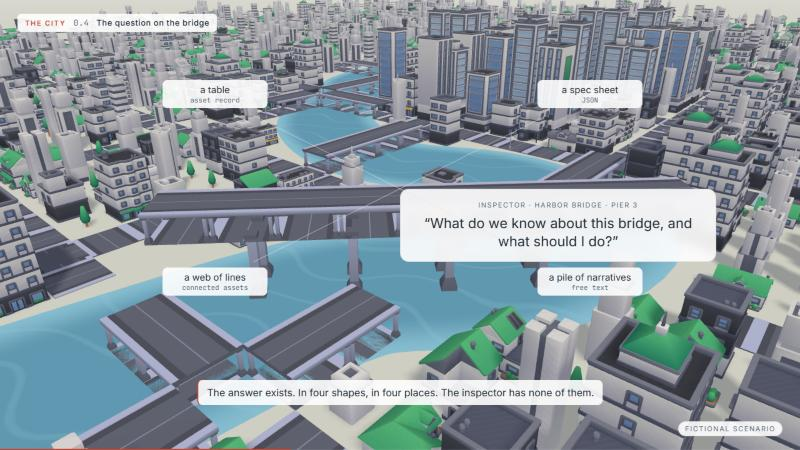
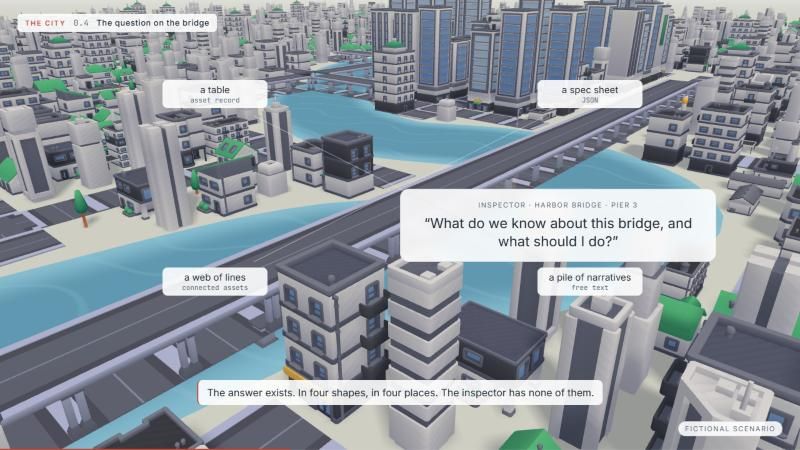
bridge: grid-aligned deck at road level with approach roads; no other crossings near the port

diff --git a/src/world/bridgeFrame.ts b/src/world/bridgeFrame.ts
@@ -1,37 +1,65 @@
 import { assetPosition } from '../content/geo';
-import { RIVER_CURVE, distanceToRiver, riverHalfWidth } from './river';
+import { RIVER_CURVE, distanceToRiver, isWater } from './river';
 
 export interface BridgeFrame {
   x: number;
   z: number;
-  /** half length of the deck (bank to bank plus approach) */
+  /** half length of the deck over water, bank to bank */
   half: number;
-  /** rotation about y so local +x runs across the river */
+  /** how far the approach road runs on land beyond each bank */
+  approach: number;
+  /** rotation about y so local +x runs across the river; snapped to the road grid */
   yaw: number;
 }
 
 let cached: BridgeFrame | null = null;
 
-/** Where Harbor Bridge crosses the river, derived from the asset position and the river curve. */
+/**
+ * Where Harbor Bridge crosses the river. The axis is snapped to the road grid (quarter turns)
+ * so the deck lines up with the streets, and the deck length is measured along that axis.
+ */
 export function harborBridgeFrame(): BridgeFrame {
   if (cached) return cached;
   const p = assetPosition('Harbor Bridge');
   const { t } = distanceToRiver(p.x, p.z);
   const c = RIVER_CURVE.getPointAt(t);
   const tan = RIVER_CURVE.getTangentAt(t);
-  const half = riverHalfWidth(t) + 12;
-  const yaw = Math.atan2(tan.x, tan.z) + Math.PI / 2;
-  cached = { x: c.x, z: c.z, half, yaw };
+  const raw = Math.atan2(tan.x, tan.z) + Math.PI / 2;
+  const yaw = Math.round(raw / (Math.PI / 2)) * (Math.PI / 2);
+  // local +x direction in world space
+  const dx = Math.cos(yaw);
+  const dz = -Math.sin(yaw);
+  const extent = (sign: number) => {
+    let d = 0;
+    while (d < 90 && isWater(c.x + dx * d * sign, c.z + dz * d * sign, 1)) d += 1;
+    return d;
+  };
+  const half = Math.max(extent(1), extent(-1)) + 4;
+  cached = { x: c.x, z: c.z, half, approach: 40, yaw };
   return cached;
 }
 
-/** True when (x, z) lies inside the bridge corridor (deck plus approaches), in world units. */
-export function inBridgeCorridor(x: number, z: number, margin = 8): boolean {
+/** Bridge-local coordinates: lx along the deck, lz across it. */
+export function toBridgeLocal(x: number, z: number): { lx: number; lz: number } {
   const f = harborBridgeFrame();
   const dx = x - f.x;
   const dz = z - f.z;
-  // rotate into bridge-local space: local x along the deck, local z across it
-  const lx = dx * Math.cos(-f.yaw) + dz * Math.sin(-f.yaw);
-  const lz = -dx * Math.sin(-f.yaw) + dz * Math.cos(-f.yaw);
-  return Math.abs(lz) < margin && Math.abs(lx) < f.half + margin;
+  const cos = Math.cos(f.yaw);
+  const sin = Math.sin(f.yaw);
+  // inverse of rotation about y by yaw: world = R(yaw) * local
+  return { lx: dx * cos - dz * sin, lz: dx * sin + dz * cos };
+}
+
+/** True when (x, z) lies inside the bridge corridor: deck plus approach roads on land. */
+export function inBridgeCorridor(x: number, z: number, margin = 8): boolean {
+  const f = harborBridgeFrame();
+  const { lx, lz } = toBridgeLocal(x, z);
+  return Math.abs(lz) < margin && Math.abs(lx) < f.half + f.approach + margin;
+}
+
+/** True when (x, z) is on the approach road (on land, within the corridor, beyond the deck). */
+export function onBridgeApproach(x: number, z: number, halfWidth = 3.5): boolean {
+  const f = harborBridgeFrame();
+  const { lx, lz } = toBridgeLocal(x, z);
+  return Math.abs(lz) < halfWidth && Math.abs(lx) >= f.half - 1 && Math.abs(lx) < f.half + f.approach;
 }

diff --git a/src/world/kitLayout.ts b/src/world/kitLayout.ts
@@ -1,7 +1,7 @@
 import { project } from '../content/geo';
 import { rng, CITY_BOUNDS } from './cityLayout';
 import { isWater } from './river';
-import { inBridgeCorridor } from './bridgeFrame';
+import { harborBridgeFrame, inBridgeCorridor, onBridgeApproach } from './bridgeFrame';
 
 /** Kenney city-kit models (CC0, kenney.nl), served from public/models/kenney. */
 export const KIT = '/models/kenney';
@@ -58,13 +58,24 @@ export function kitLayout(seed = 11): Placement[] {
       const ez = Math.min(z - minZ, maxZ - z) / 150;
       const edge = Math.max(0, Math.min(1, ex, ez));
       const water = isWater(x, z, 2);
-      if (inBridgeCorridor(x, z, 9)) continue;
+      if (inBridgeCorridor(x, z, 9)) {
+        // approach roads join Harbor Bridge to the street grid; the rest of the corridor stays clear
+        if (!water && onBridgeApproach(x, z)) {
+          const f = harborBridgeFrame();
+          const alongX = Math.abs(Math.cos(f.yaw)) > 0.5; // deck runs along world x
+          out.push({ model: (onAvX && !alongX) || (onAvZ && alongX) ? 'roads/road-crossroad.glb' : 'roads/road-straight.glb', x, z, yaw: alongX ? 1 : 0, s: ROAD_SCALE });
+        }
+        continue;
+      }
 
       if (onAvX || onAvZ) {
         // avenues: road tiles; over water they become bridges; fade out at the edge
         if (r() > 0.2 + 0.8 * edge) continue;
         if (water) {
           if (onAvX && onAvZ) continue;
+          // Harbor Bridge is the only crossing near the port
+          const hb = harborBridgeFrame();
+          if (Math.hypot(x - hb.x, z - hb.z) < 60) continue;
           out.push({ model: 'roads/road-bridge.glb', x, z, yaw: onAvX ? 0 : 1, s: ROAD_SCALE });
         } else if (onAvX && onAvZ) {
           out.push({ model: 'roads/road-crossroad.glb', x, z, yaw: 0, s: ROAD_SCALE });

diff --git a/src/world/HarborBridge.tsx b/src/world/HarborBridge.tsx
@@ -7,7 +7,7 @@ import { harborBridgeFrame } from './bridgeFrame';
 import { KIT } from './kitLayout';
 
 const DECK_TILE = 6; // road-bridge tile is 1 unit, scaled to the city cell
-const DECK_Y = 7;
+const DECK_Y = 1.6;
 
 /**
  * Harbor Bridge: Kenney road-bridge tiles on bridge-pillar piers across the river,
@@ -37,14 +37,14 @@ export function HarborBridge({ inspector = false, markers = false }: { inspector
       ))}
       {piers.map((x, i) =>
         [-2, 2].map((z, j) => (
-          <primitive key={`${i}-${j}`} object={pillarClones[i * 2 + j]} position={[x, 0, z]} scale={[16, DECK_Y * 2, 16]} />
+          <primitive key={`${i}-${j}`} object={pillarClones[i * 2 + j]} position={[x, -0.2, z]} scale={[18, (DECK_Y + 0.2) * 2, 18]} />
         )),
       )}
       {inspector && <Inspector x={pier3} y={DECK_Y + 0.3} />}
       {markers && (
         <>
-          <Marker x={pier3} y={DECK_Y} label="Pier 3" sub="crack · this afternoon" color={theme.red} delayMs={1800} labelY={34} />
-          <Marker x={pier2} y={DECK_Y} label="Pier 2" sub="corrosion · next session" color={theme.data} delayMs={3000} labelY={20} />
+          <Marker x={pier3} y={DECK_Y} label="Pier 3" sub="crack · this afternoon" color={theme.red} delayMs={1800} labelY={30} />
+          <Marker x={pier2} y={DECK_Y} label="Pier 2" sub="corrosion · next session" color={theme.data} delayMs={3000} labelY={18} />
         </>
       )}
     </group>

diff --git a/src/world/shots.ts b/src/world/shots.ts
@@ -17,9 +17,9 @@ export const SHOTS: Record<ShotId, Shot> = {
   'city-high': { position: [10, 150, 170], target: [-5, 0, -30], durationMs: 2500, ease: 'inOut' },
   'city-wide': { position: [60, 200, 230], target: [0, 0, -40], durationMs: 2000, ease: 'inOut' },
   'ops-center': { position: [40, 60, -10], target: [5, 6, -67], durationMs: 2000, ease: 'inOut' },
-  'bridge-pier3': { position: [56, 30, 74], target: [23, 6, 36], durationMs: 2200, ease: 'inOut' },
+  'bridge-pier3': { position: [52, 22, 70], target: [23, 2, 36], durationMs: 2200, ease: 'inOut' },
   'bridge-pier2': { position: [0, 14, 62], target: [20, 4, 38], durationMs: 1600, ease: 'inOut' },
-  'bridge-overview': { position: [78, 62, 112], target: [18, 6, 28], durationMs: 2200, ease: 'inOut' },
+  'bridge-overview': { position: [78, 58, 112], target: [18, 2, 28], durationMs: 2200, ease: 'inOut' },
   'core-dive': { position: [0, -30, 215], target: CORE_POS, durationMs: 2500, ease: 'inOut' },
   'core-face-tables': { position: [-110, -60, 130], target: [-30, -84, -20], durationMs: 1400, ease: 'inOut' },
   'core-face-json': { position: [110, -60, 130], target: [30, -84, -20], durationMs: 1400, ease: 'inOut' },
